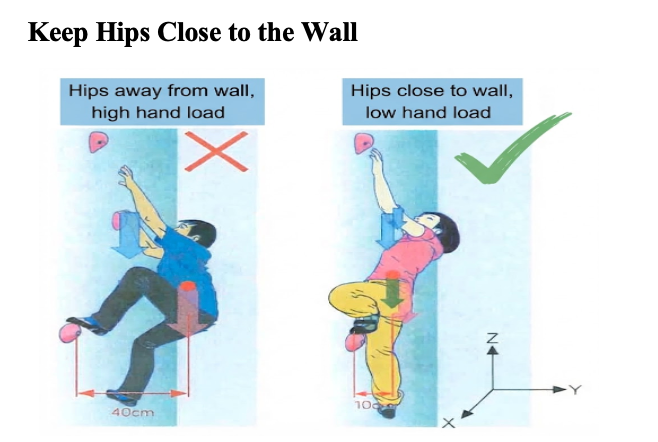
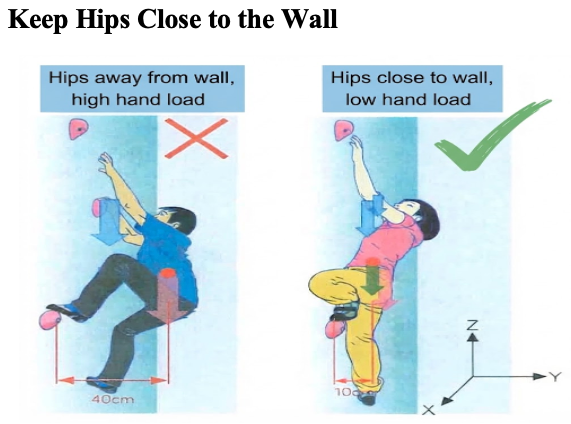
Narrow the 2.2 figures so the trap/fix copy can run wider.

diff --git a/index.html b/index.html
@@ -303,6 +303,15 @@
       height: 100%;
     }
 
+    #basics .cues.tight .cue {
+      grid-template-columns: minmax(0, 1fr) minmax(140px, 186px);
+      gap: 8px;
+    }
+
+    #basics .cues.tight .cue img {
+      justify-self: end;
+    }
+
     #basics .cue img {
       display: block;
       width: 100%;
@@ -737,7 +746,7 @@
 
           <article class="cell">
             <h2><span class="n">2.2</span><span class="en">Overcoming ground instincts &amp; body alignment</span><span class="zh">克服陆地直觉与身位纠偏</span></h2>
-            <ol class="why letters cues">
+            <ol class="why letters cues tight">
               <li>
                 <div class="cue">
                   <div>

diff --git a/m.html b/m.html
@@ -192,6 +192,11 @@
       align-items: center;
     }
 
+    .cues.tight .cue {
+      grid-template-columns: minmax(0, 1.55fr) minmax(80px, 0.52fr);
+      gap: 8px;
+    }
+
     .cue img {
       width: 100%;
       height: auto;
@@ -452,7 +457,7 @@
 
           <article class="card">
             <h2><span class="n">2.2</span><span class="en">Overcoming ground instincts &amp; body alignment</span><span class="zh">克服陆地直觉与身位纠偏</span></h2>
-            <ol class="why letters cues">
+            <ol class="why letters cues tight">
               <li>
                 <div class="cue">
                   <div>
